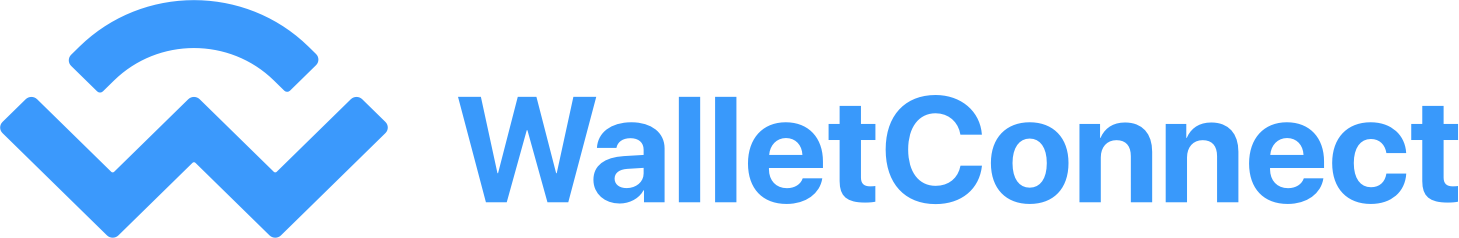
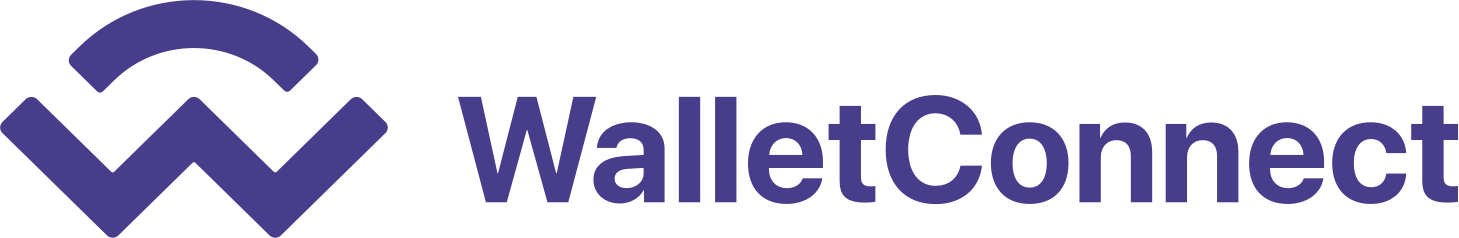
updated initial interface design

Changed region(s): [[0.3084, 0.3824, 1.0, 0.8529], [0.0, 0.4118, 0.2776, 1.0], [0.0308, 0.0, 0.2159, 0.3824]]

diff --git a/src/components/Modal.tsx b/src/components/Modal.tsx
@@ -1,19 +1,23 @@
 import React, { useEffect, useRef, useState } from "react";
 import styled from "styled-components";
+import { fonts } from "../styles";
+import Button from "./Button";
 import { colors, transitions } from "../styles";
+
 
 const SLightbox = styled.div<{
   show: boolean;
   offset: number;
   opacity?: number;
 }>`
+  display: flex;
   text-align: center;
   position: absolute;
-  width: 100vw;
-  height: 100%;
-  margin-left: -50vw;
-  top: ${({ offset }) => (offset ? `-${offset}px` : 0)};
+  width:55%;
+  height:65%;
+  top: 50%;
   left: 50%;
+  transform: translate(-50%, -50%);
   z-index: 2;
   will-change: opacity;
   background-color: ${({ opacity }) => {
@@ -21,17 +25,18 @@ const SLightbox = styled.div<{
     if (typeof opacity === "number") {
       alpha = opacity;
     }
-    return `rgba(0, 0, 0, ${alpha})`;
+    return `rgba(72,61,139, ${alpha})`;
   }};
   visibility: ${({ show }) => (show ? "visible" : "hidden")};
   pointer-events: ${({ show }) => (show ? "auto" : "none")};
-  display: flex;
   justify-content: center;
   align-items: center;
 `;
 
 const SModalContainer = styled.div`
   position: relative;
+  z-index: 2;
+  background-color: rgb(255, 255, 255);
   width: 100%;
   height: 100%;
   padding: 15px;
@@ -53,6 +58,13 @@ interface CloseButtonStyleProps {
   color: string;
   onClick?: any;
 }
+ const SXButton = styled(Button as any)`
+  border-radius: 10px;
+  background:#483D8B;
+  font-size: ${fonts.size.medium};
+  height: 44px;
+  width: 100%;
+`;
 
 const SCloseButton = styled.div<CloseButtonStyleProps>`
   position: absolute;
@@ -116,7 +128,6 @@ export default function Modal({ children, show, opacity, closeModal }: IProps) {
     if (lightboxRef.current) {
       const lightboxRect = lightboxRef.current.getBoundingClientRect();
       const nextOffset = lightboxRect.top > 0 ? lightboxRect.top : 1;
-
       if (nextOffset !== 0 && nextOffset !== offset) {
         setOffset(nextOffset);
       }
@@ -124,13 +135,12 @@ export default function Modal({ children, show, opacity, closeModal }: IProps) {
   }, [offset]);
 
   return (
-    <SLightbox show={show} offset={offset} opacity={0.1} ref={lightboxRef}>
+    <SLightbox show={show} offset={offset} opacity={0.9} ref={lightboxRef}> 
       <SModalContainer>
-        <SHitbox onClick={closeModal} />
-
+      <SHitbox onClick={closeModal} />
         <SCard>
-          <a onClick={closeModal} > x </a>
-          <SModalContent>{children}</SModalContent>
+        <SXButton onClick={closeModal}>Close</SXButton>
+        <SModalContent>{children}</SModalContent>
         </SCard>
       </SModalContainer>
     </SLightbox>

diff --git a/src/components/Blockchain.tsx b/src/components/Blockchain.tsx
@@ -22,28 +22,23 @@ const SAccount = styled.div<AccountStyleProps>`
   display: flex;
   flex-direction: column;
   align-items: flex-start;
-  border-radius: 8px;
+  border-radius: 10px;
   padding: 8px;
   margin: 5px 0;
+  background: 	#CBC6E6;
   border: ${({ rgb }) => `2px solid rgb(${rgb})`};
   &.active {
-    box-shadow: ${({ rgb }) => `0 0 8px rgb(${rgb})`};
+    box-shadow: ${({ rgb }) => `0 0 10px rgb(${rgb})`};
   }
 `;
 
 const SChain = styled.div`
   width: 100%;
-  display: flex;
+  display: grid;
   align-items: center;
-  & p {
-    font-weight: 600;
-  }
-  & img {
-    border-radius: 50%;
-    width: 35px;
-    height: 35px;
-    margin-right: 10px;
-  }
+  text-align:center;
+  font-size:16px;
+  font-weight: 600;
 `;
 
 const SContainer = styled.div`
@@ -109,13 +104,12 @@ const Blockchain: FC<PropsWithChildren<BlockchainProps>> = (
   return (
     <React.Fragment>
       <SAccount
-        rgb="218, 104, 167"
+        rgb="72,61,139"
         onClick={() => onClick && onClick(chainId)}
         className={active ? "active" : ""}
       >
         <SChain>
-          <img src="/assets/westend-logo.svg" alt={chainId} />
-          <p>{chainId} - {getNameByChainId(chainId)}</p>
+          <p>{getNameByChainId(chainId)}</p>
         </SChain>
         {!!address && <p>{address}</p>}
         <SBlockchainChildrenContainer>

diff --git a/src/components/Dropdown.tsx b/src/components/Dropdown.tsx
@@ -10,6 +10,7 @@ interface DropdownProps {
 }
 
 const SelectContainer = styled.select`
+
   width: 150px;
   background: transparent;
   color: black;
@@ -18,14 +19,18 @@ const SelectContainer = styled.select`
   padding: 2px;
   font-size: "1.25em";
   position: absolute;
-  bottom: 40px;
-  left: 50px;
+  bottom: 55px;
+  left: 55px;
   direction: ltr;
   unicode-bidi: embed;
+  
+  
 `;
 
 const SelectOption = styled.option`
+  
   font-size: "1.25em";
+  color:#483d8b;
 `;
 
 const Dropdown = (props: DropdownProps) => {
@@ -44,11 +49,11 @@ const Dropdown = (props: DropdownProps) => {
         width: 250,
         display: "flex",
         justifyContent: "center",
-        alignItems: "flex-end",
+        alignItems: "flex-end"
       }}
     >
-      <button onClick={openDropdown} style={{ background: "transparent" }}>
-        <Icon size={30} src={"/assets/settings.svg"} />
+      <button  onClick={openDropdown} style={{background: "transparent", cursor: "pointer" }}>
+        <Icon size={35} src={"/assets/setting.png"} />
       </button>
       {openSelect && (
         <SelectContainer
@@ -66,7 +71,7 @@ const Dropdown = (props: DropdownProps) => {
             );
           })}
         </SelectContainer>
-      )}
+      )} 
     </div>
   );
 };

diff --git a/src/components/app/index.tsx b/src/components/app/index.tsx
@@ -10,7 +10,17 @@ export const SLayout = styled.div`
   min-height: 100vh;
   text-align: center;
 `;
-
+export const SSelect= styled.div`
+  display: flex;
+  align-items: center;
+  text-align: center;
+  margin: 0 0 10px;
+  & img {
+    width: 40px;
+    height: 40px;
+    margin-right: 10px;
+  }
+`;
 export const SContent = styled(Wrapper as any)`
   width: 100%;
   height: 100%;
@@ -19,15 +29,19 @@ export const SContent = styled(Wrapper as any)`
 
 export const SLanding = styled(Column as any)`
   /* height: 600px; */
+  color:DarkSlateBlue;
 `;
 
 export const SButtonContainer = styled(Column as any)`
+
   width: 250px;
   margin: 50px 0;
+  
 `;
 
 export const SConnectButton = styled(Button as any)`
-  border-radius: 8px;
+  border-radius: 10px;
+  background:#483D8B;
   font-size: ${fonts.size.medium};
   height: 44px;
   width: 100%;

diff --git a/src/pages/index.tsx b/src/pages/index.tsx
@@ -24,6 +24,7 @@ import {
   SContent,
   SLanding,
   SLayout,
+  SSelect,
   SToggleContainer,
 } from "../components/app";
 import { useWalletConnectClient } from "../contexts/ClientContext";
@@ -150,9 +151,12 @@ const Home: NextPage = () => {
     return !accounts.length && !Object.keys(balances).length ? (
       <SLanding center>
         <Banner />
-        <h6>{`Using v${version || "2.0.0-beta"}`}</h6>
+        <h6 >{`Using v${version || "2.0.0-beta"}`}</h6>
         <SButtonContainer>
-          <h6>Select chains:</h6>
+          <SSelect>
+            <img src="/assets/hedera-hbar-logo.png" alt={chainId}/> 
+            <h6>Select chains:</h6>
+          </SSelect>
           {chainOptions.map((chain) => (
             <Blockchain
               key={chain}

diff --git a/src/helpers/namespaces.ts b/src/helpers/namespaces.ts
@@ -9,9 +9,9 @@ chainsMap.set(LedgerId.PREVIEWNET.toString(), 297);
 const chainsNames: {
   [key: string]: string
 } = {
-  295: "mainnet",
-  296: "testnet",
-  297: "previewnet",
+  295: "Mainnet (295)",
+  296: "Testnet (296)",
+  297: "Previewnet (297)",
 }
 
 export enum METHODS {

diff --git a/src/components/Banner.tsx b/src/components/Banner.tsx
@@ -2,6 +2,7 @@ import * as React from "react";
 import styled from "styled-components";
 
 const SBannerWrapper = styled.div`
+  padding-top: 15px;
   display: flex;
   align-items: center;
   position: relative;
